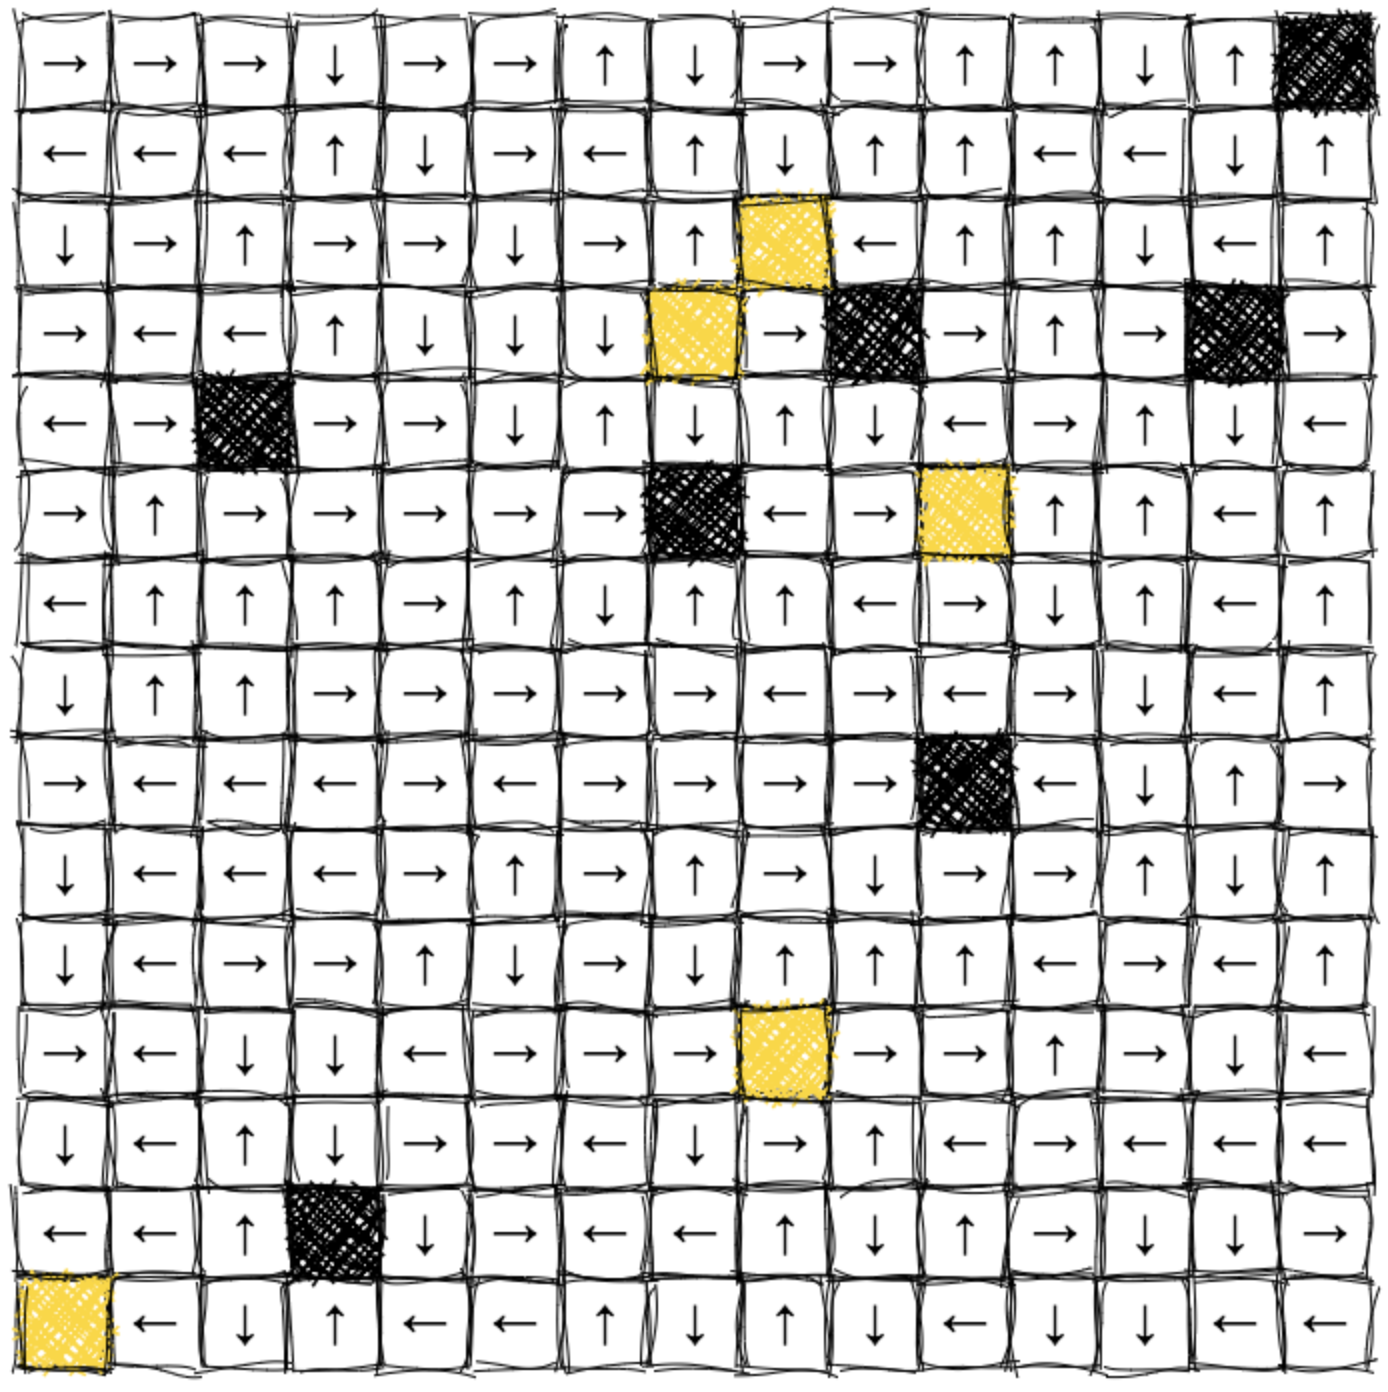
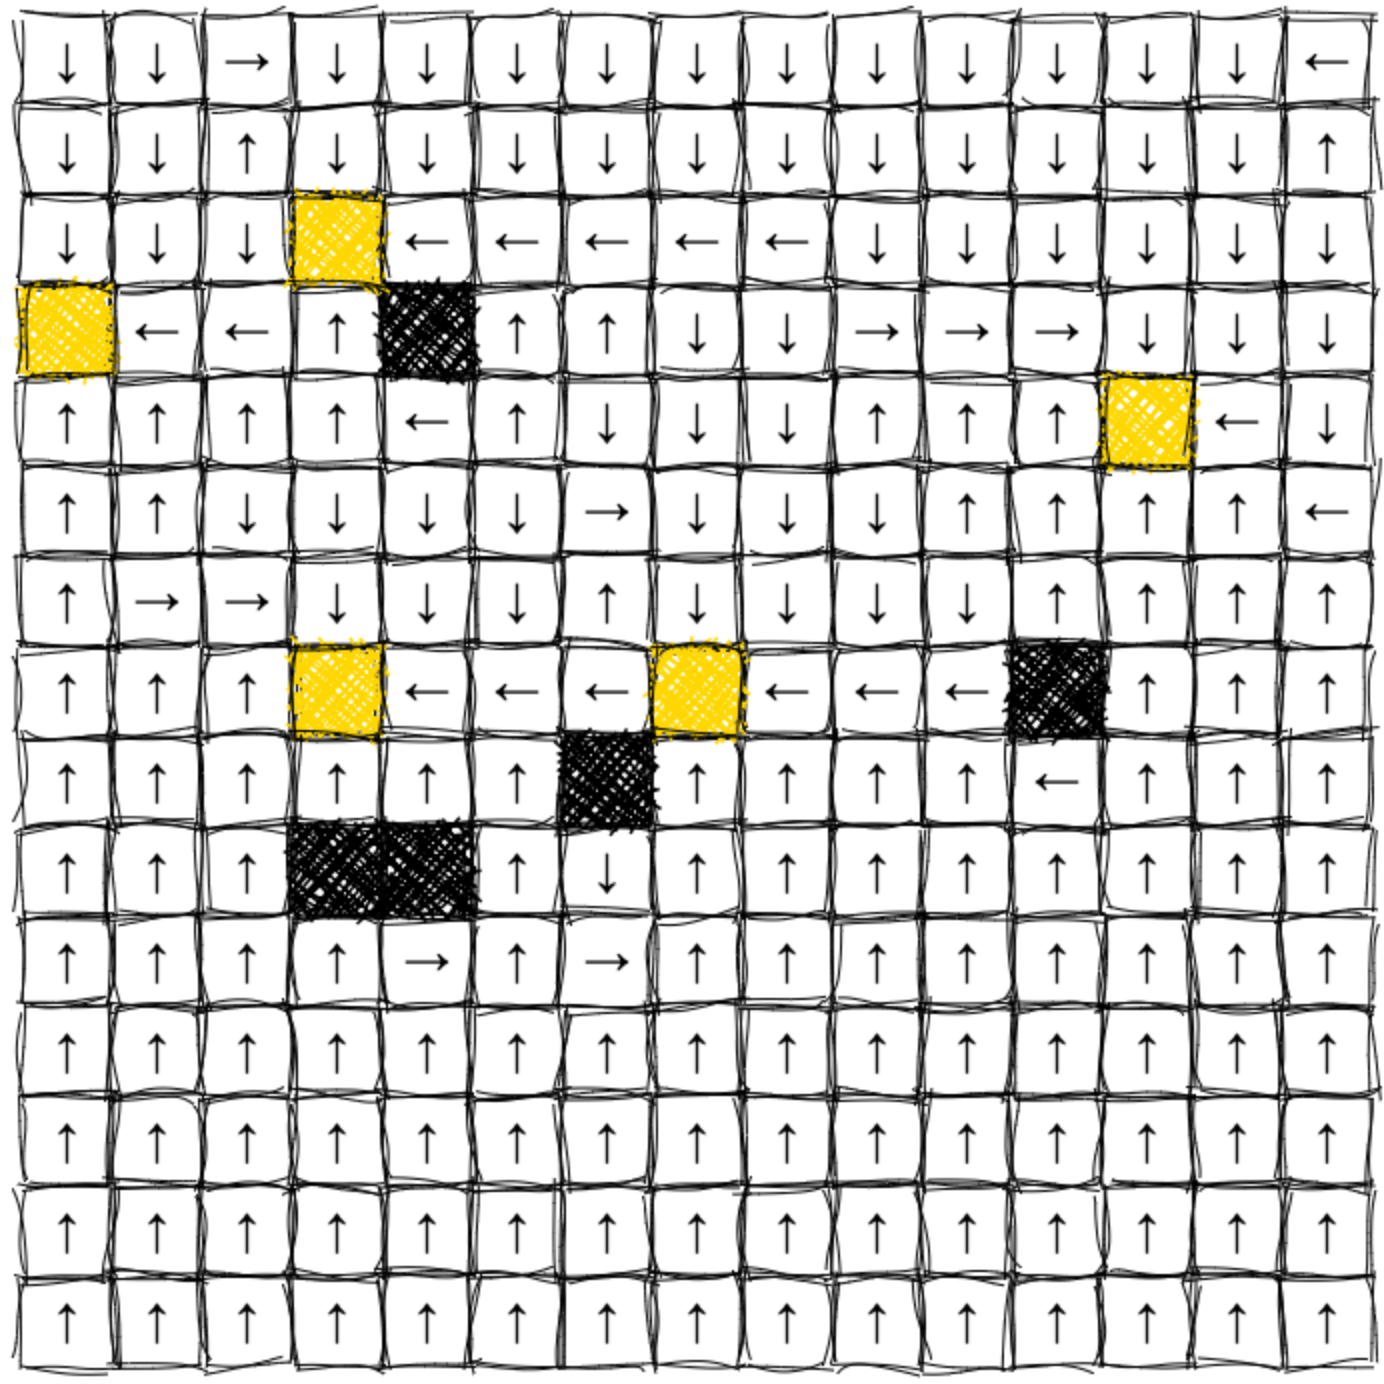
updated picture for a trained model

diff --git a/src/app/rl-logic.js b/src/app/rl-logic.js
@@ -194,6 +194,7 @@ export class Gridworld extends StateMachine {
  ******************************/
 
  export class QLearner {
+
    constructor(world, alpha=0.04, epsilon=0.2, gamma=0.8) {
     // Algorithm configuration. Won't lie, these numbers
     // are usually magic, and take trying out different values
@@ -201,7 +202,9 @@ export class Gridworld extends StateMachine {
     this.alpha = alpha;    // step size (how much progress we're actually making)
     this.epsilon = epsilon;  // probabily of taking a random action instead of the optimal one
     this.gamma = gamma;    // discount rate. it trades off the importance of sooner vs later rewards.
-    
+
+    this.trainingState = undefined;
+
     this.world = world;
     this.reset();
   }
@@ -230,13 +233,15 @@ export class Gridworld extends StateMachine {
     }
   }
 
-  trainStart(duration=3000, batch=10000, isTraining){
-    isTraining.next(true);
+  trainStart(batch, trainingState){
+  // trainStart(duration=3000, batch=10000, isTraining){
+    this.trainingState = trainingState;
+    this.trainingState.next( 2);
     this.currentState = this.world.pickRandomState();
     this._sequence = [];
     this._running = true;
     this.timer = setTimeout( () => this.trainStep(batch));
-    setTimeout( () => {this.trainStop(); isTraining.next(false)}, duration);
+    // setTimeout( () => {this.trainStop(); isTraining.next(false)}, duration);
     // let resolve = () => {this.trainStop();};
     // await new Promise(resolve => setTimeout(resolve, duration));
   }
@@ -244,12 +249,14 @@ export class Gridworld extends StateMachine {
   trainStop(){
     this._running = false;
     clearTimeout( this.timer);
+    this.trainingState.next(0);
     // console.log('done training');
   }
 
   trainStep(batch) {
     // Initialize S: Pick a random starting state.
     
+     console.log(`training step`);
      // console.log(`training ${steps} steps`);
      for(let dummy = 0; dummy < batch; dummy++){
     // Take steps until you reach the goal.
@@ -267,6 +274,9 @@ export class Gridworld extends StateMachine {
   }
   if( this._running){
     this.timer = setTimeout( () => this.trainStep(batch));
+  }
+  else{
+    this.trainingState.next(0);
   }
 }
 

diff --git a/src/app/app.component.ts b/src/app/app.component.ts
@@ -1,7 +1,8 @@
 import { Component } from '@angular/core';
 import { Gridworld, QLearner} from './rl-logic.js';
 import {MatSnackBar} from '@angular/material';
-import { BehaviorSubject} from 'rxjs';
+import { BehaviorSubject, Observable} from 'rxjs';
+import { map } from 'rxjs/operators';
 import * as _ from 'lodash';
 
 var randRange = (min, max) => Math.floor(Math.random() * (max-min) + min)
@@ -28,9 +29,20 @@ export class AppComponent {
   gamma = 0.8;
   learner;
   policy;
-  isTraining = new BehaviorSubject<boolean>(false);
+  trainingState = new BehaviorSubject<Number>(0);
+  trainButtonMsg:Observable<string>;
 
   constructor(private snackBar: MatSnackBar){
+    this.trainButtonMsg = this.trainingState.pipe( map( x => {
+      if (x === 0){
+        return 'Train';
+      }
+      if (x === 1){
+        return 'Stopping...';
+      }
+      return 'Stop';
+    })
+    );
   }
 
   printInBar(message:string, duration:number=1000){
@@ -112,16 +124,24 @@ export class AppComponent {
   }
 
   trainMode(){
-    if( this.learner){
+    // if( this.learner){
       // 1mins training
-      let training_duration = 1000*60*5;
+      // let training_duration = 1000*60*5;
       // let training_duration = 1000*60*1;
-      this.learner.trainStart(training_duration, 10000, this.isTraining);
+      // this.learner.trainStart(training_duration, 10000, this.isTraining);
+      if ( this.trainingState.getValue() === 0){
+        console.log('starting training')
+          this.learner.trainStart(100000000, this.trainingState);
+        }
+      else{
+          this.trainingState.next(1);
+          this.learner.trainStop();
+      }
       // setTimeout( () => {this.updatePolicy();}, 1000);
-    }
-    else{
-      this.printInBar('Generate grid first', 500);
-    }
+    // }
+    // else{
+    //   this.printInBar('Generate grid first', 500);
+    // }
     // console.log('done training')
   }
 }

diff --git a/src/app/app.component.html b/src/app/app.component.html
@@ -1,6 +1,8 @@
 
 <router-outlet></router-outlet>
 
+<h1> {{ trainingState | async}}</h1>
+
 <h2> Grid walker (RL educated) </h2>
 <div fxLayout="row" fxLayoutAlign="start center" fxLayoutGap="40px" >
 <div>
@@ -16,7 +18,8 @@
 </div>
 <p>
 <button mat-stroked-button (click)='generateWorld()'> Generate </button>
-<button mat-stroked-button [disabled]='!learner || (isTraining | async)' (click)='trainMode()'> {{(isTraining | async) ? 'Training...' : 'Train'}} </button>
+<button mat-stroked-button [disabled]='!learner || (trainingState | async) === 1' (click)='trainMode()'> {{trainButtonMsg | async}} </button>
+<!-- <button mat-stroked-button [disabled]='!learner || (isTraining | async)' (click)='trainMode()'> {{(isTraining | async) ? 'Training...' : 'Train'}} </button> -->
 <button mat-stroked-button (click)='updatePolicy()'> Update policy vis </button>
 </p>
 <app-draw-box [array]='array' [mines_coordinates]='mines_coordinates' [treats_coordinates]='treats_coordinates' [policy]='policy'>
